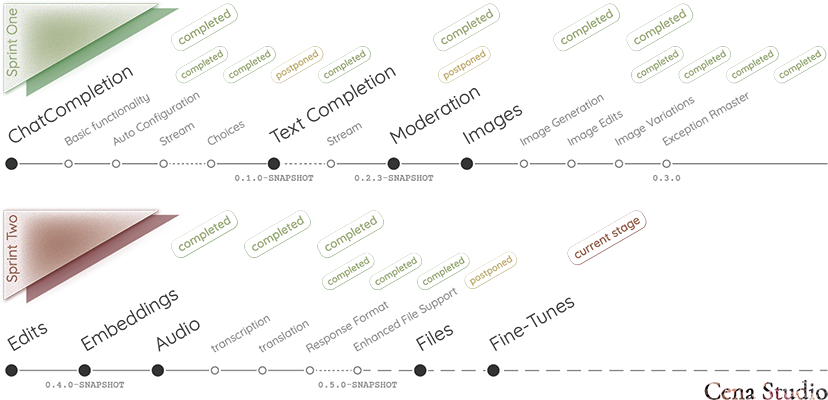
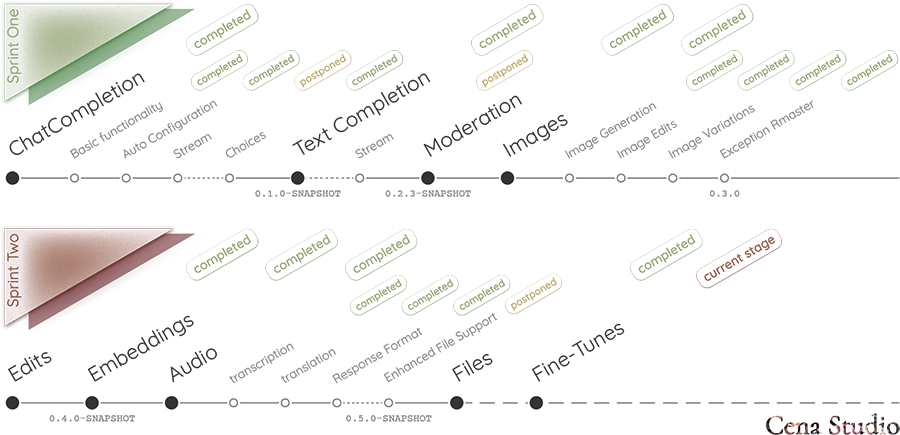
readme & roadmap update

diff --git a/README.md b/README.md
@@ -814,3 +814,57 @@ openai:
         responseFormat: "json"  # the format of the generated transcription text.
         temperature: 0 # 0~1 decimal. degree of randomness in the output. more randomness with bigger value.
 ```
+## 11 File
+Files API is a set of APIs used to transfer files, which majorly used for fine-tuning, between client and OpenAi server.
+
+Like other file related APIs, this starter supports several types of the argument represengting the file, including `String` in base64 format, `String` of the local file path, `String` of the url of a remote image, `File`, `byte[]`, `SystemFileResource`, and `ByteArrayResource`. When using an valid `String` as the argument, the type will be automatically recognized and processed.
+
+Unlike every API we've discussed so far has its own context. The file related APIs share one context since there is no configuration options for those APIs.
+```java
+@Service
+public class MyService{
+
+    @Autowired
+    OpenAiSource openAiSource;
+
+    public void MyMethod(){
+        
+        // create a context for file related requests
+        OpenAiFileContext openAiFile = openAiSource.createFileContext();
+
+        // use the context to make requests, see the following subsections
+    }
+
+}
+```
+### 11.1 Upload File
+To upload files to OpenAi's server:
+```java
+// upload the file with the purpose "fine-tune"
+OpenAiFileResponseBody response = openAiFile.createFile("src/main/resources/static/train.jsonl", "fine-tune");
+```
+### 11.2 List Files
+To retrieve the list of uploaded files:
+```java
+OpenAiListFileResponseBody response = openAiFile.listFiles();
+```
+### 11.3 Retrieve File
+To retrieve the information of a single file using the file id:
+```java
+// retrieve the file with the file id
+OpenAiFileResponseBody response = openAiFile.retrieveFile("file-xxxxxxxxxxx");
+```
+### 11.4 Retrieve File Content
+To retrieve the content of a single file using the file id:
+```java
+// retrieve the file content with the file id
+OpenAiDownloadFileResponseBody response = openAiFile.downloadFile("file-xxxxxxxxxxx");
+// retrieve and print the content
+System.out.println(response.getContent());
+```
+### 11.5 Delete File
+To delete files from OpenAi's server:
+```java
+// delete the file through the file id
+OpenAiDeleteFileResponseBody response = openAiFile.deleteFile("file-xxxxxxxxxxx");
+```
